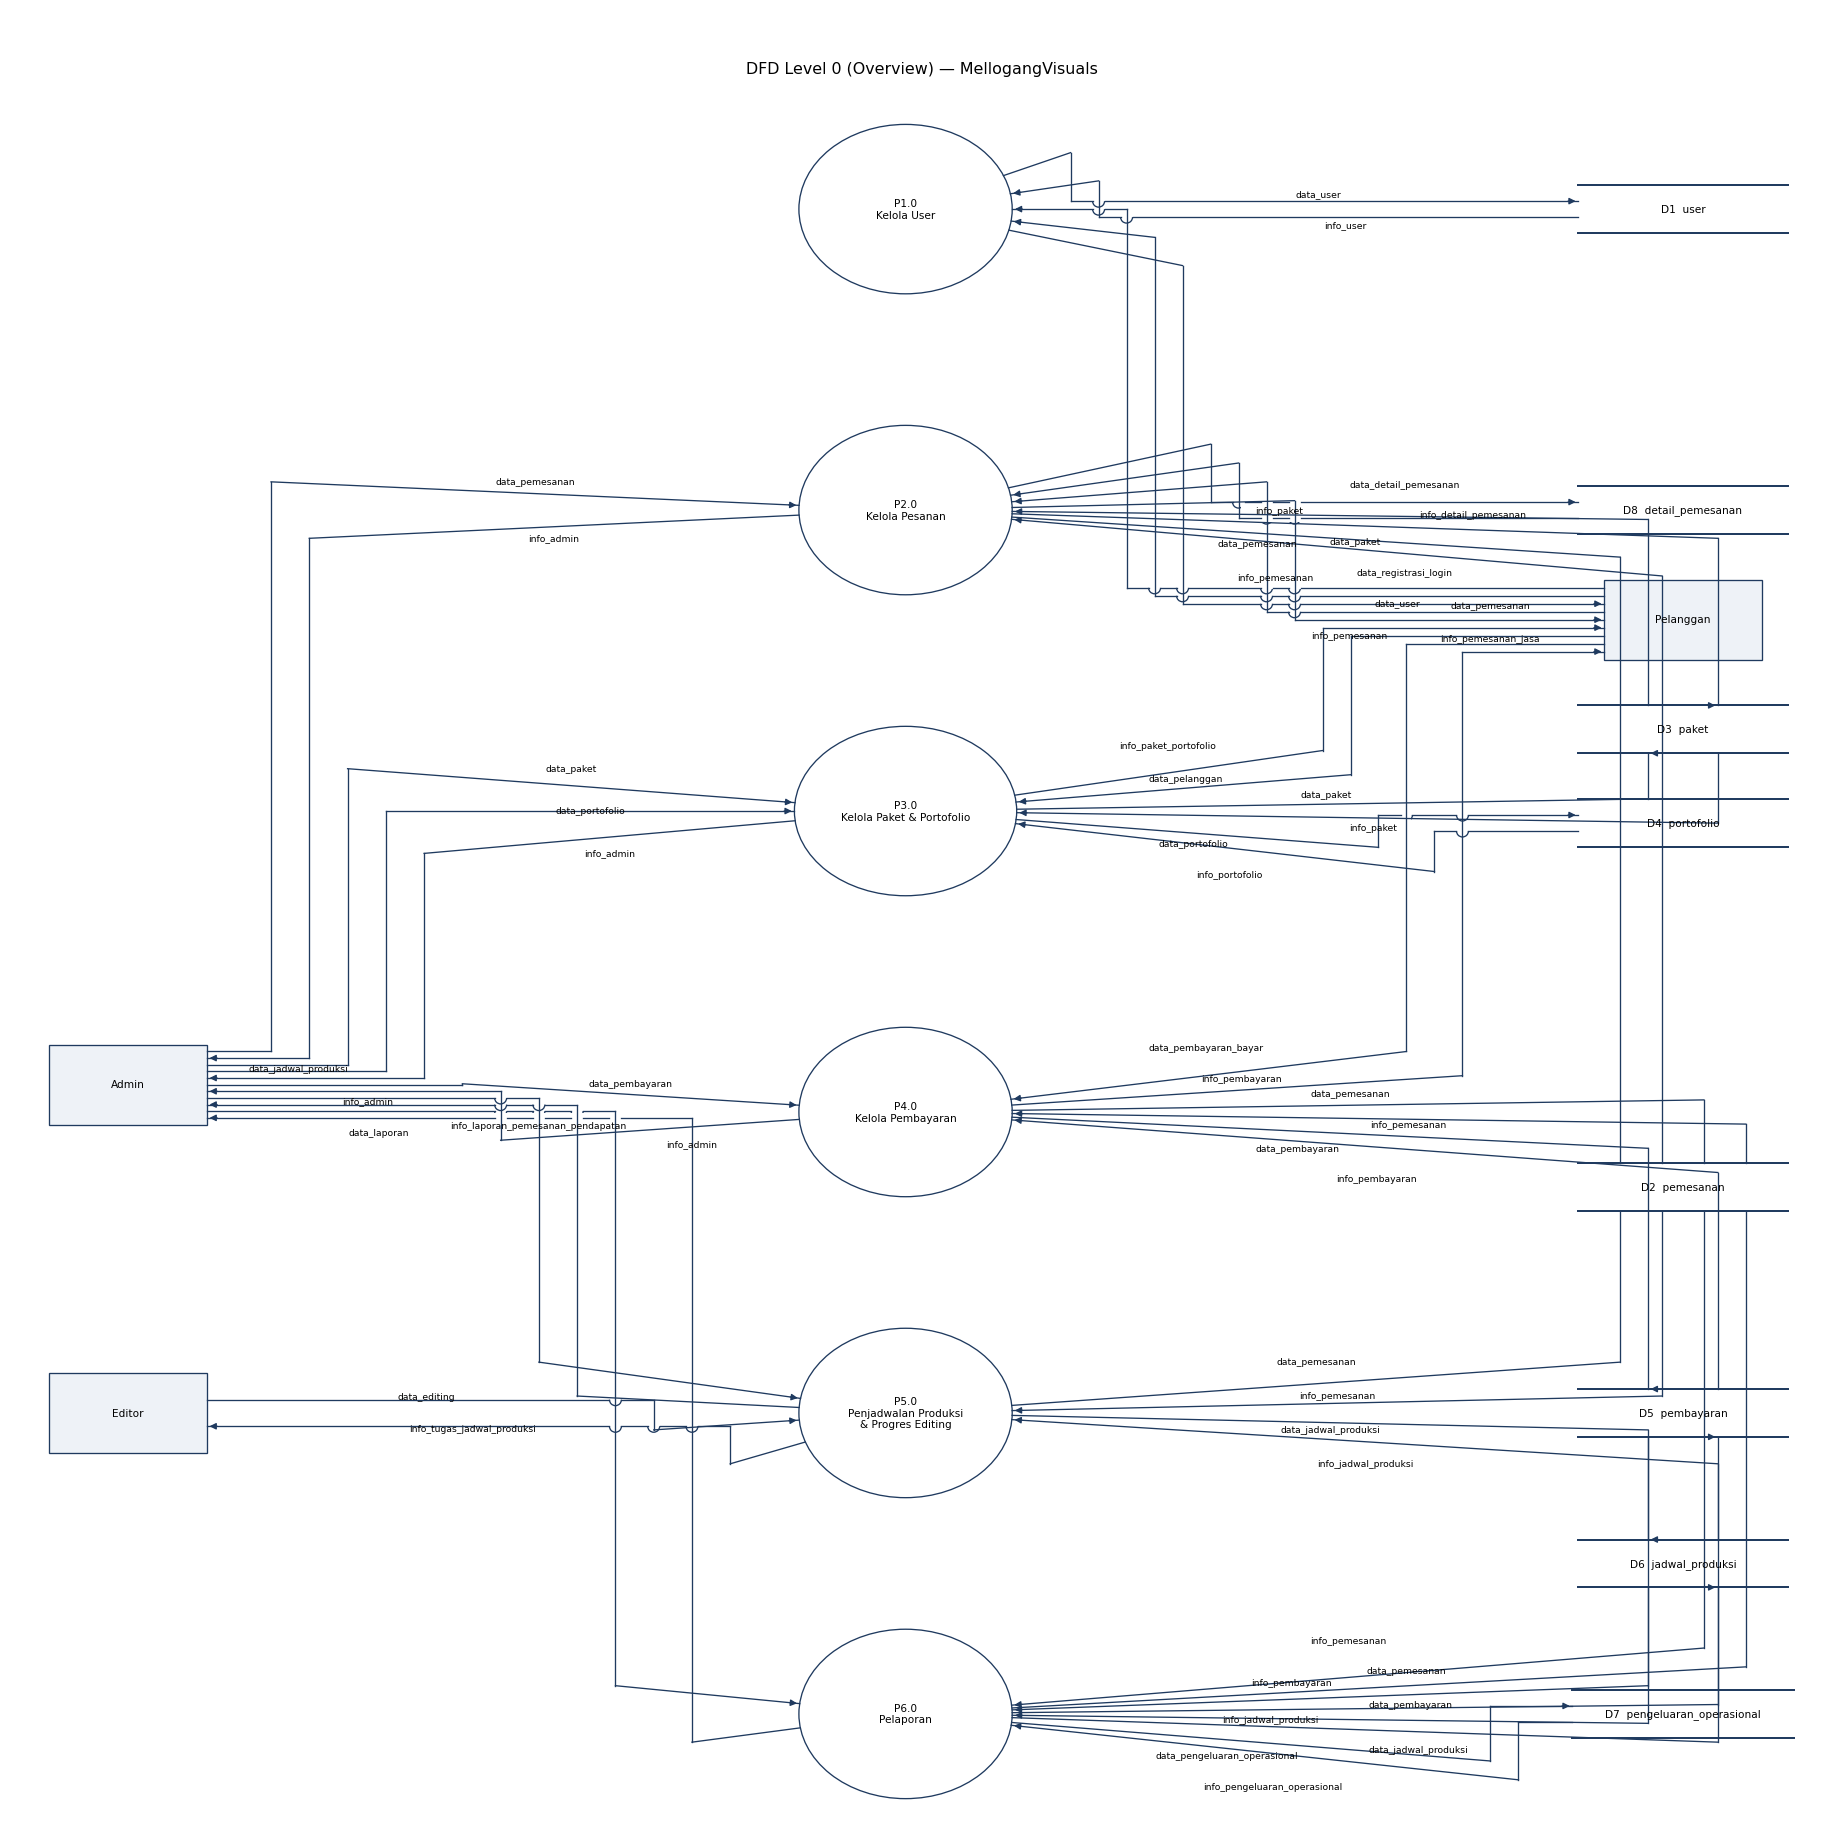
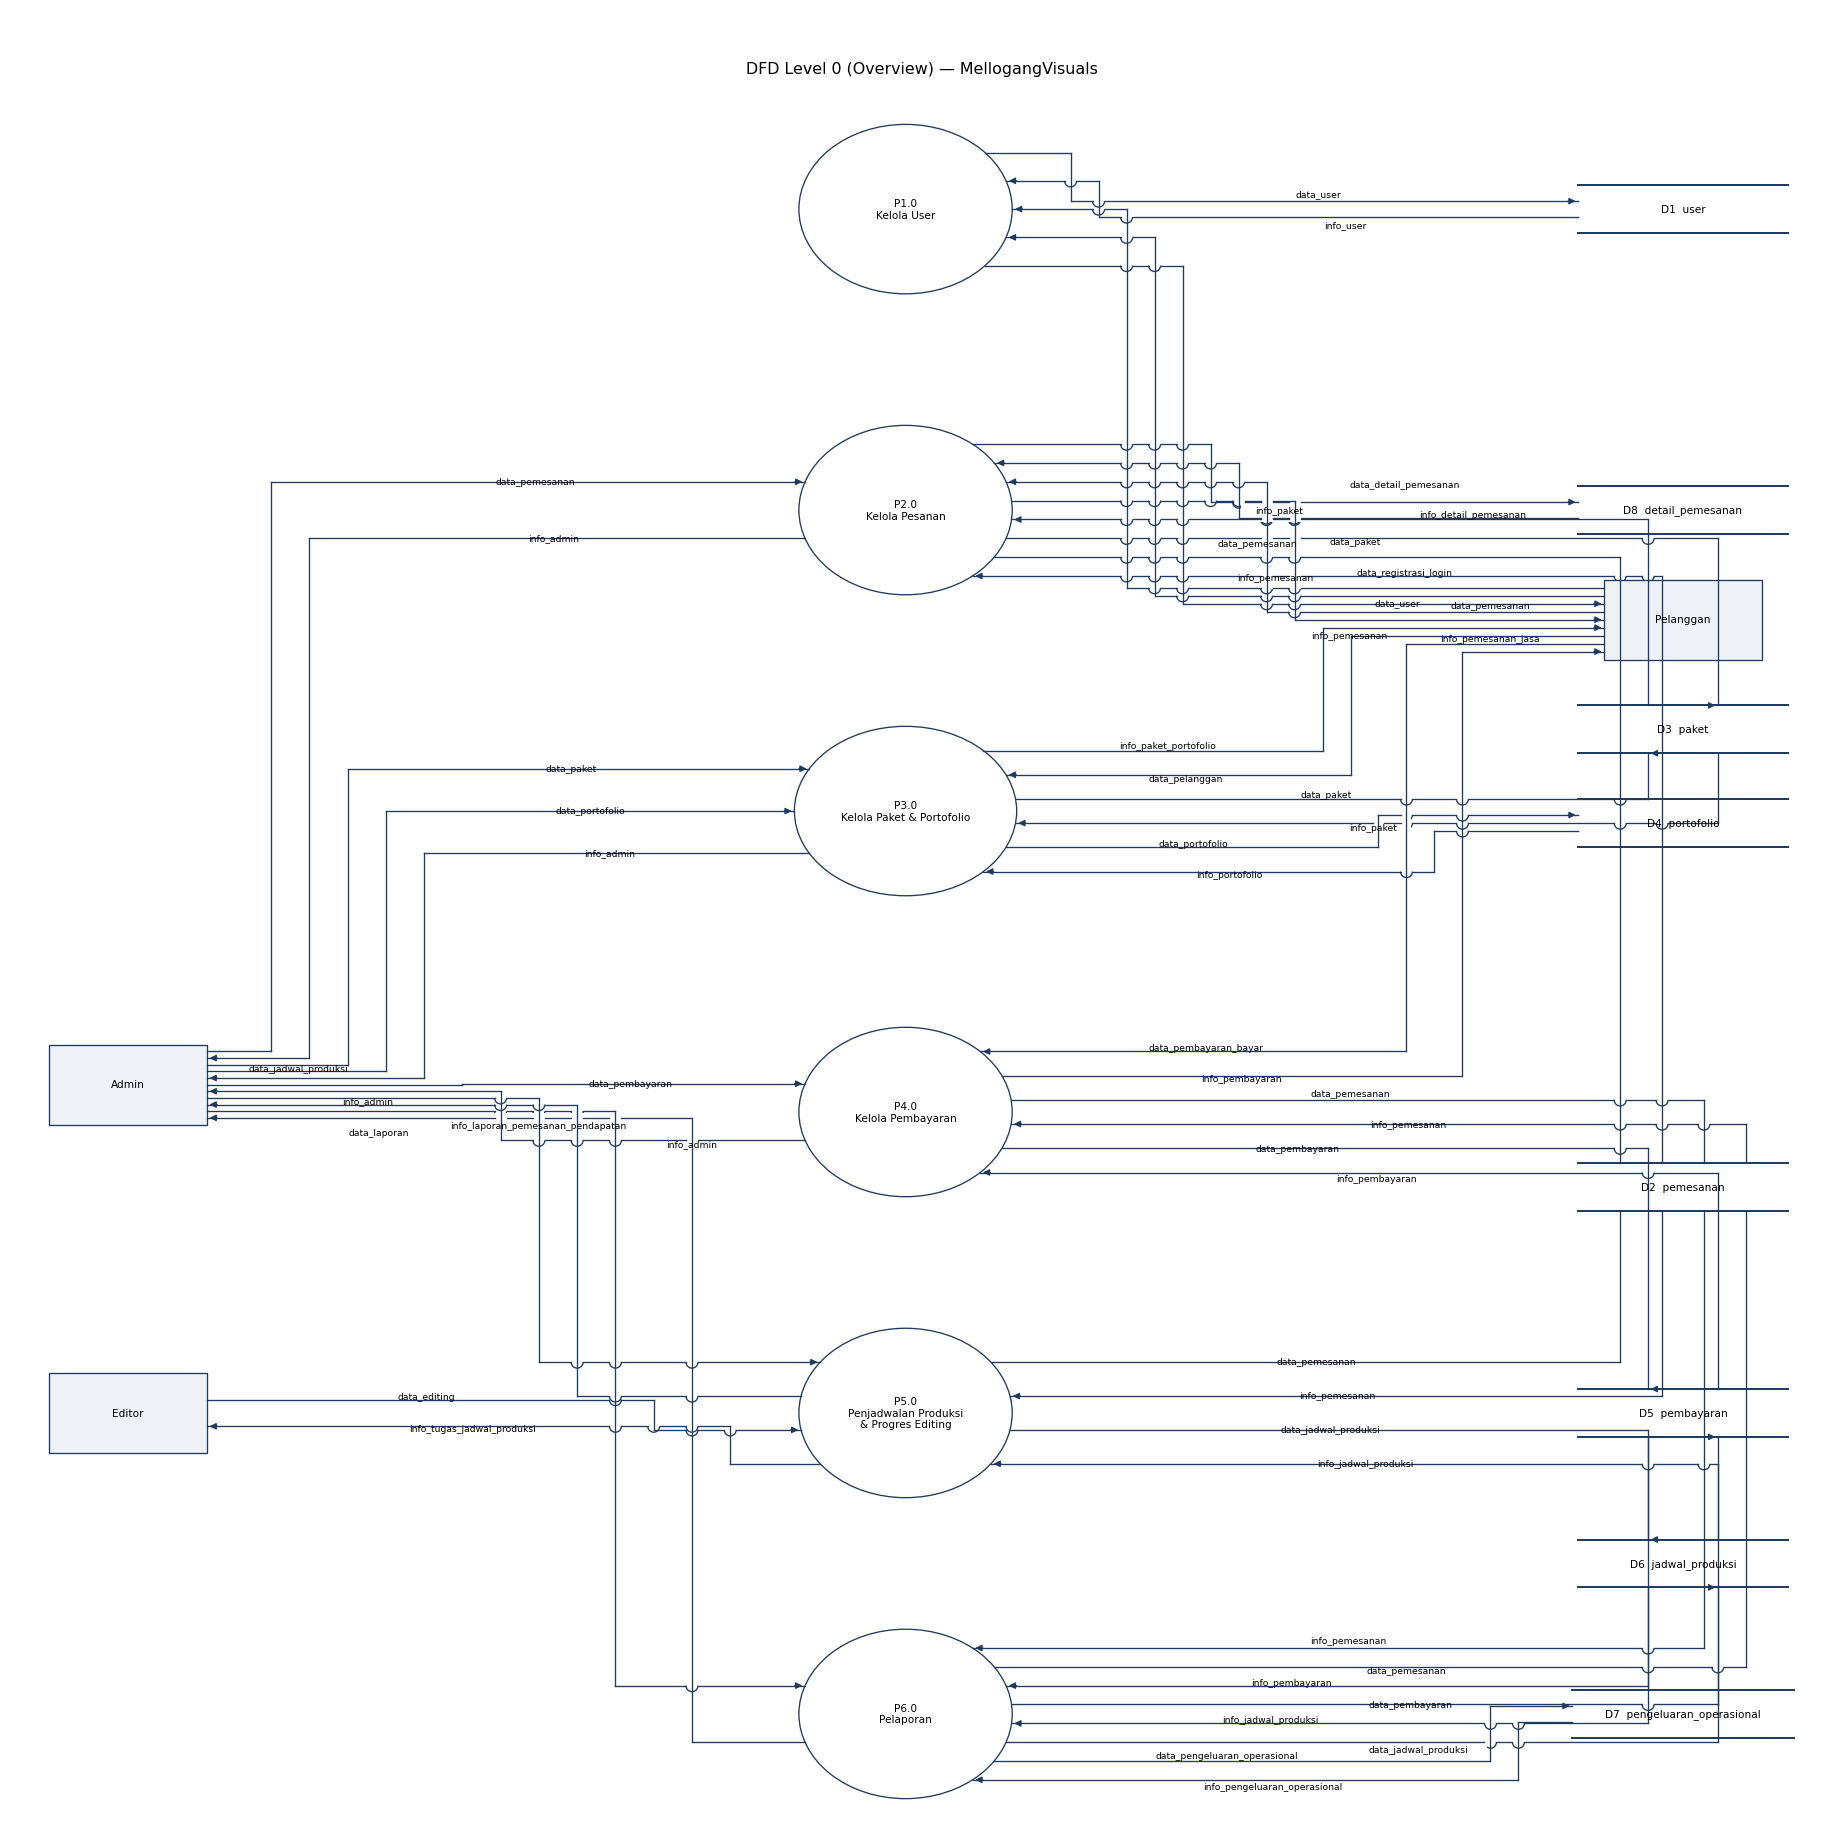
FASE A: fix DFD preview fan-mess — clip ellipse along segment axis
The "arrows on circle" change pulled PROCESS edge-ends toward the ellipse CENTRE,
but the waypoint sits at the spread port Y, so the last segment tilted into a
diagonal -> the triangular "fans" that made every DFD look kacau. Replace with
_clip_ellipse(): intersect the ellipse along the segment's OWN axis at the port's
fixed coordinate, so the run stays perfectly horizontal/vertical and the arrow
still lands on the circle. DFDs are now clean orthogonal again (P1/P4/P5 read like
the reference). draw.io was always fine (it projects ports onto the perimeter);
this was a preview-only artifact.

Overlap 0/0; XML well-formed. Regenerated result/, generated/, docs/img.

diff --git a/kenshi/preview.py b/kenshi/preview.py
@@ -25,6 +25,31 @@ from .model import (PROCESS, EXTERNAL, DATASTORE, ENTITY, ATTRIBUTE,
 _EPS = 1.5   # px tolerance for "axis-aligned"
 
 
+def _clip_ellipse(node, port, nbr):
+    """Move an axis-aligned edge end onto the ellipse WITHOUT bending the segment.
+
+    A fixed bbox port sits off the curve; pulling it toward the centre (the old
+    boundary_point) tilted the last segment into a diagonal -> the triangular
+    "fans". Here we intersect the ellipse along the segment's own axis at the
+    port's fixed coordinate, so the run stays straight and the arrow still lands
+    on the circle."""
+    cx, cy = node.center
+    hw, hh = node.w / 2.0, node.h / 2.0
+    if abs(port[1] - nbr[1]) < _EPS and hh:          # horizontal approach
+        rel = (port[1] - cy) / hh
+        if abs(rel) >= 1.0:
+            return port
+        x = cx + (1.0 if nbr[0] >= cx else -1.0) * hw * math.sqrt(1 - rel * rel)
+        return (x, port[1])
+    if abs(port[0] - nbr[0]) < _EPS and hw:          # vertical approach
+        rel = (port[0] - cx) / hw
+        if abs(rel) >= 1.0:
+            return port
+        y = cy + (1.0 if nbr[1] >= cy else -1.0) * hh * math.sqrt(1 - rel * rel)
+        return (port[0], y)
+    return boundary_point(node, nbr)
+
+
 def _edge_points(e, node):
     """Full polyline (screen coords) from the source perimeter to the target.
 
@@ -39,12 +64,12 @@ def _edge_points(e, node):
         tx = b.x + float(e.style["entryX"]) * b.w
         ty = b.y + float(e.style["entryY"]) * b.h
         pts = [(sx, sy)] + [tuple(p) for p in e.waypoints] + [(tx, ty)]
-        # a fixed port on an ellipse bbox sits off the curve at spread Y; pull the
-        # PROCESS ends onto the actual circle so arrows touch it (like the ref)
+        # a fixed port on an ellipse bbox sits off the curve; clip PROCESS ends
+        # onto the circle ALONG the segment axis so the run stays straight
         if a.kind == PROCESS and len(pts) > 1:
-            pts[0] = boundary_point(a, pts[1])
+            pts[0] = _clip_ellipse(a, pts[0], pts[1])
         if b.kind == PROCESS and len(pts) > 1:
-            pts[-1] = boundary_point(b, pts[-2])
+            pts[-1] = _clip_ellipse(b, pts[-1], pts[-2])
         return pts
     (sx, sy), (tx, ty) = clip_edge(a, b, pullback=0.0)
     if e.waypoints:
